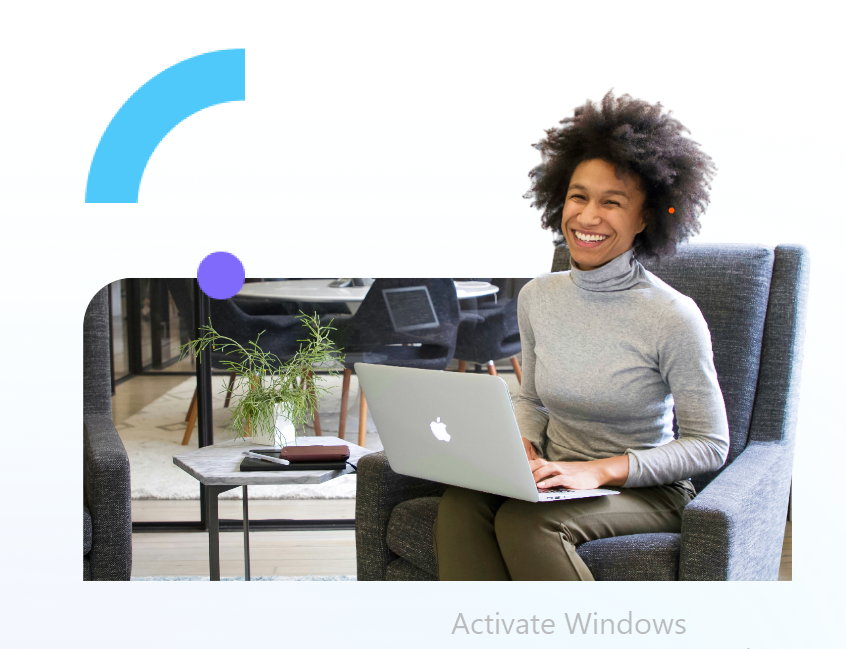
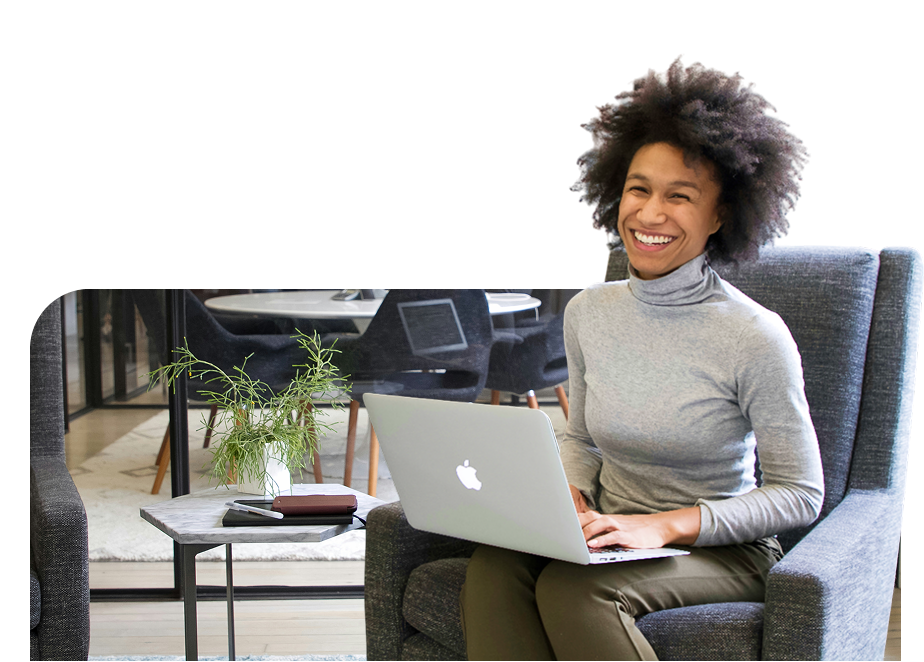
fixed Top navbar

diff --git a/Css/Style.css b/Css/Style.css
@@ -17,7 +17,7 @@
    Global Styles
 ======================== */
 body {
-  margin: 0;
+  margin-top: 69px;
   font-family: var(--font-base);
   font-size: var(--font-size-base);
   color: var(--color-white);
@@ -176,11 +176,12 @@ border-radius: 1px 30px 30px 1px;
 }
 
 .stats-card {
-  background-image:url(/assets/index/Stats.jpg);
+  background-image:url(/assets/index/StatsGrid.png);
   border-radius: 25px;
   padding: 24px 16px;
   color: white;
   box-shadow: 0 10px 25px rgba(0,0,0,0.05);
+  background-color: #10172a;
   background-repeat: no-repeat;
   background-position: center;
   background-size: cover;
@@ -218,11 +219,9 @@ width: 50px;
 }
 .services-section {
   padding: 80px 0;
-  background-image:
-    linear-gradient(to right, rgba(255, 0, 150, 0.08) 1px, transparent 1px),
-    linear-gradient(to bottom, rgba(255, 0, 150, 0.08) 1px, transparent 1px);
-  background-size: 30px 30px;
-  background-position: center;
+  background-image:url(/assets/index/Grid.png);
+  background-size: contain;
+  background-repeat: repeat;
 }
 
 .masonry-grid {
@@ -275,8 +274,7 @@ box-shadow: 0 10px 20px #920aca6e;
   margin-left: 4px;
 }
 .about-section_2 {
-    background: linear-gradient(#feffff, #d0e7f1 );
-}
+    background: linear-gradient(#d0e7f1, #fae2f98a, #d1e7f1);}
 .review{
       background: linear-gradient(#d0e7f1, #feffff );
 

diff --git a/Header.html b/Header.html
@@ -18,7 +18,7 @@
 <body>
 <div id="Bhalekar-header-container">
         <header>
-            <nav class="navbar navbar-expand-lg navbar-dark bg-dark sticky-top py-3">
+<nav class="navbar navbar-expand-lg navbar-dark bg-dark fixed-top py-3">
                 <div class="container-fluid">
 
                     <!-- Logo -->

diff --git a/Index.html b/Index.html
@@ -16,7 +16,7 @@
 <body>
 <div id="Bhalekar-header-placeholder"></div>
 
-<section class="hero-section">
+<section class="hero-section py-5">
   <div class="container py-5">
     <div class="row">
       <div class="col-lg-10">
